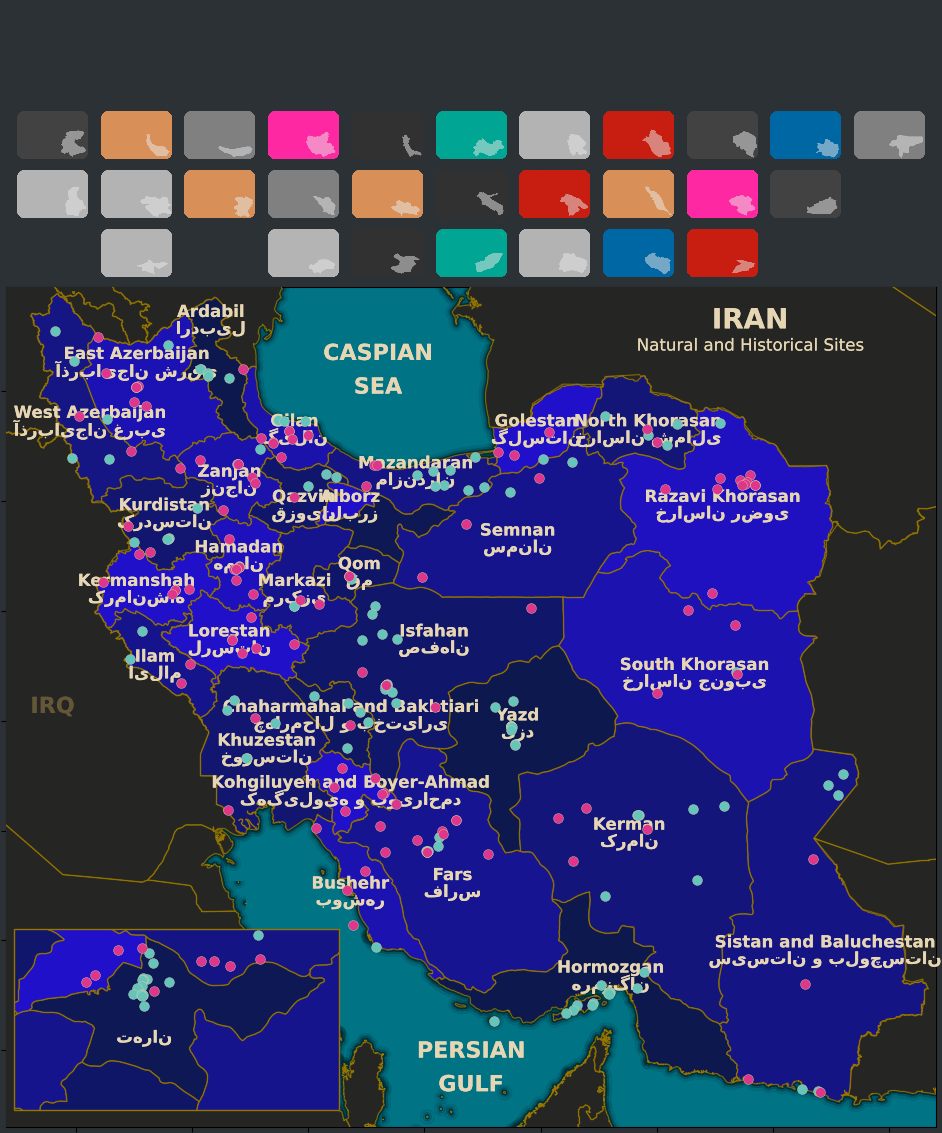
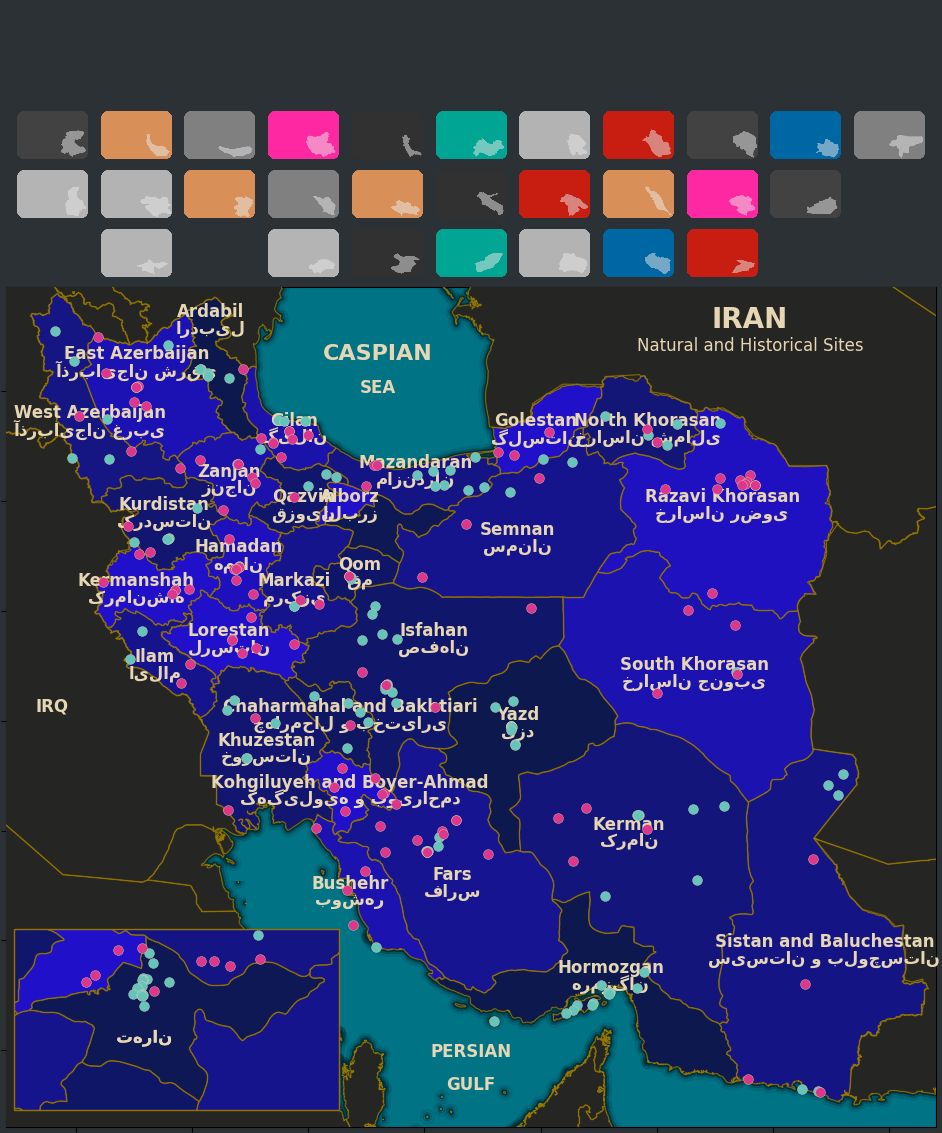
create defined text styles

diff --git a/plotting/plotting_manager.py b/plotting/plotting_manager.py
@@ -49,6 +49,7 @@ class PlotManager:
 
         # Extract metadata fields for plotting
         self.text = meta_data["Text"]
+        self.text_styles = meta_data["Text Styles"]
         self.plotting = meta_data["Plotting"]
         self.colors = meta_data["Colors"]
         self.labels = meta_data["Labels"]
@@ -73,7 +74,7 @@ class PlotManager:
 
         # Inset still gets original/full points
         self._plot_expansions(ax, current_date, self.points_working, zorder=50)
-        self._plot_text(ax, self.text, zorder=60)
+        self._plot_text(ax, zorder=60)
 
         if self.plot_scale >= 3:
             self._plot_labels(
@@ -104,32 +105,27 @@ class PlotManager:
         )
         fig.patch.set_facecolor(self.colors["bg"])
         return fig, ax
-    
-    def _plot_text(self, ax, text, zorder):
 
-        for text_itm in self.text:
+       
+    def _plot_text(self, ax, zorder):
 
-            if "outline" in text_itm:
-                pass
-            else:
-                text_itm["outline"] = 0
-                text_itm["outline_c"] = "black"
+        for label in self.text:
 
+            style = self.text_styles[label["type"]]
+                
             ax.text(
-                text_itm["x"],                     # x position in axes coords
-                text_itm["y"],                     # y position in axes coords
-                text_itm["text"],
+                label["x"],
+                label["y"],
+                label["text"],
                 transform=ax.transAxes,
-                fontsize=text_itm["size"],
-                fontfamily=text_itm["font"],
-                fontweight=text_itm["weight"],
-                color=text_itm["color"],
+                #path_effects=[pe.withStroke(linewidth=text_itm["outline"], foreground=text_itm["outline_c"])],
                 ha="center",
                 va="center",
                 zorder=zorder,
                 alpha=1,
-                path_effects=[pe.withStroke(linewidth=text_itm["outline"], foreground=text_itm["outline_c"])]
+                **style
             )
+
 
     def _plot_background(self, ax, zorder):
         # Background Map Plotting
